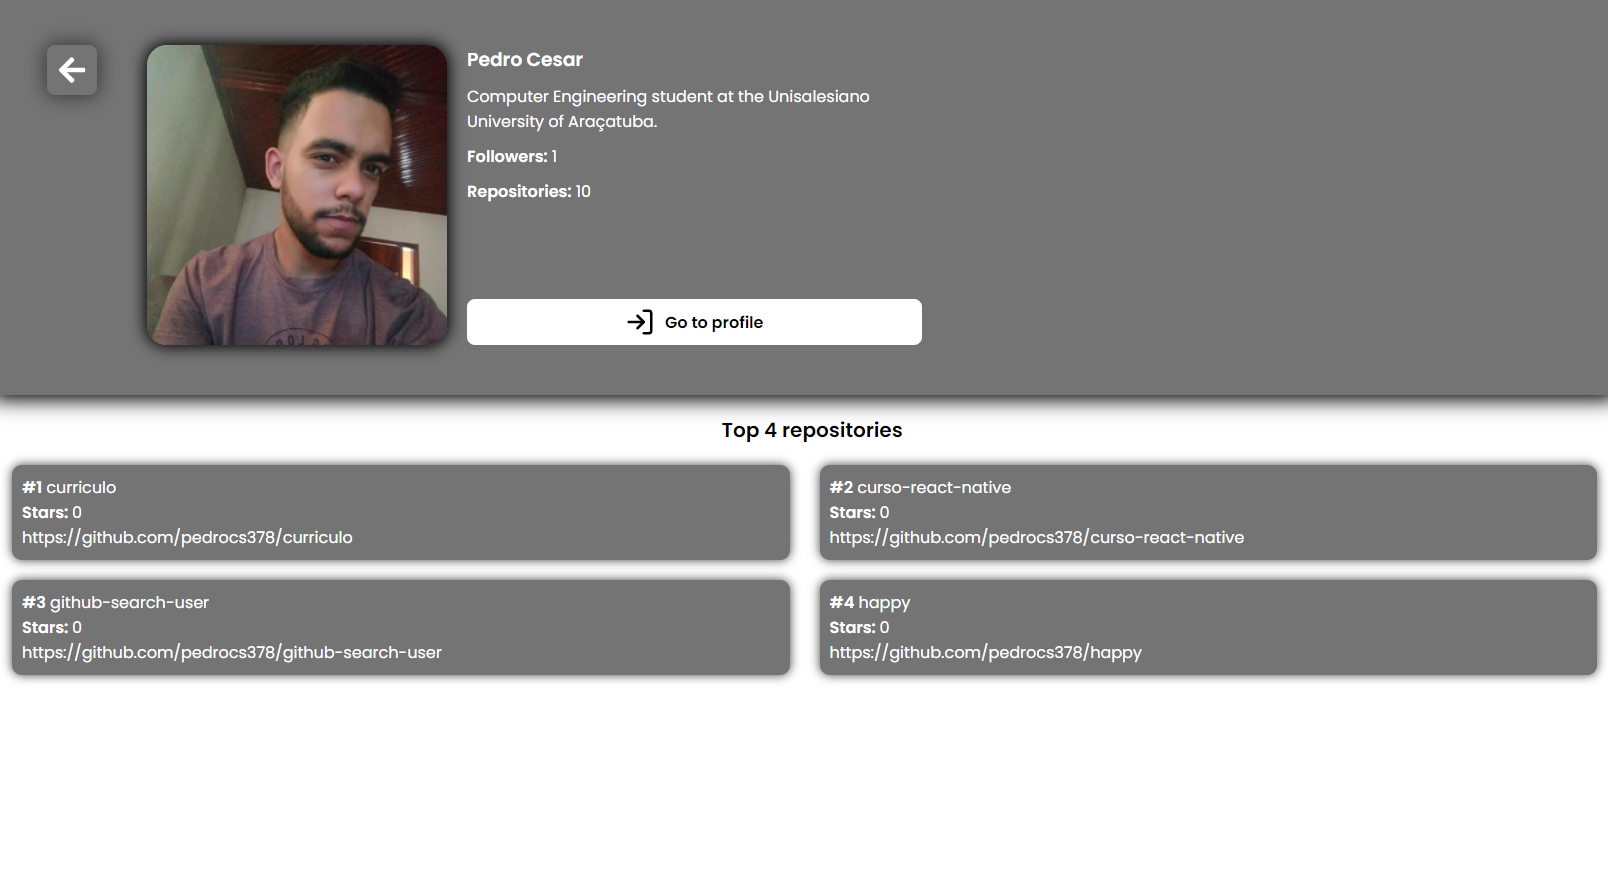
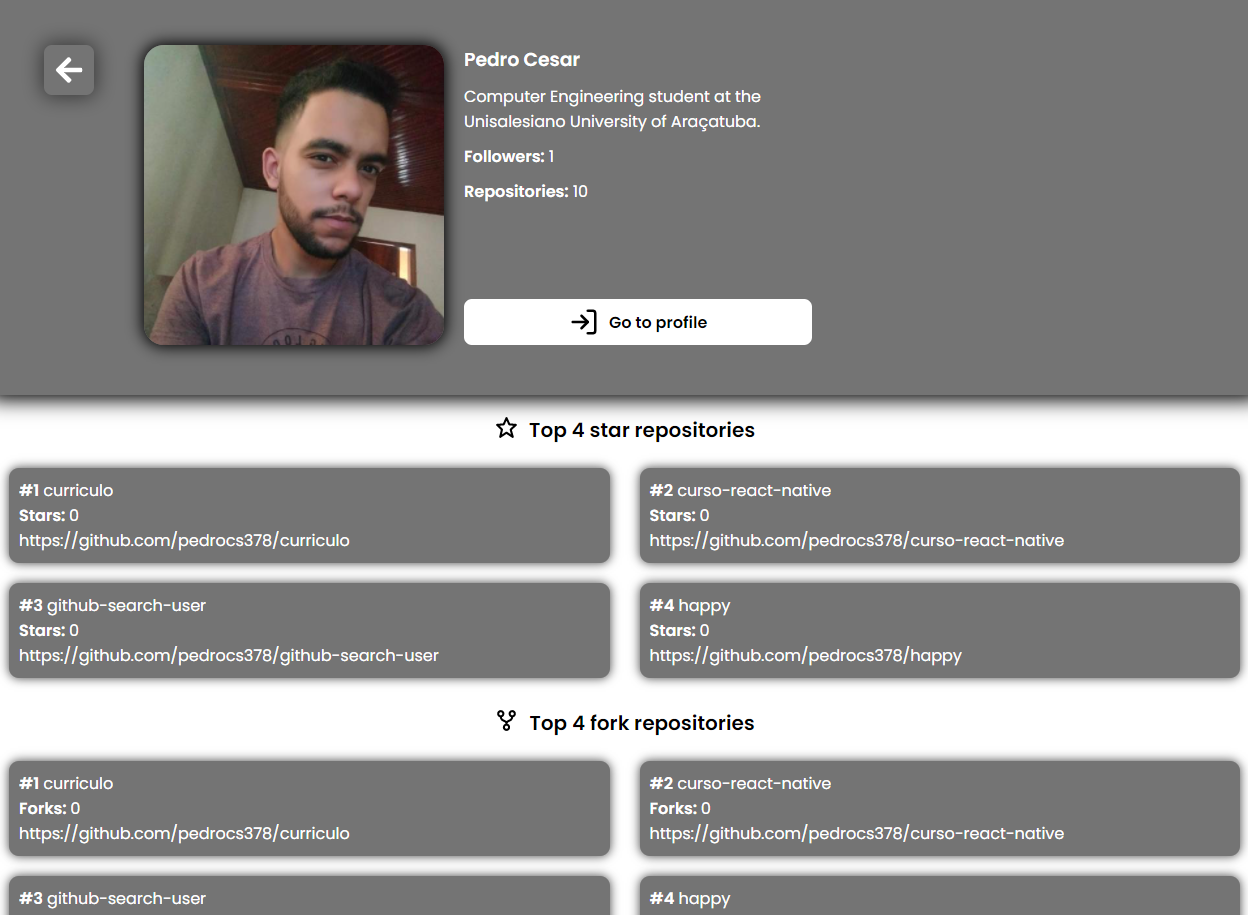
atualizando README

diff --git a/README.md b/README.md
@@ -10,7 +10,7 @@ O projeto foi desenvolvido com as seguintes tecnologias:
 
 ## :computer: Projeto
 
-Este projeto é uma pequena ideia utilizando da API do GitHub para recuperar informações do usuário quando um nome de usuário válido é inserido. Nele é exibido avatar, nome de usuário, contagem de seguidores, contagem de repositórios e 4 principais repositórios baseado nas estrelas.
+Este projeto é uma pequena ideia utilizando da API do GitHub para recuperar informações do usuário quando um nome de usuário válido é inserido. Nele é exibido avatar, nome de usuário, contagem de seguidores, contagem de repositórios e 4 principais repositórios baseado em estrelas e forks.
 
 ## :bookmark: Layout
 
